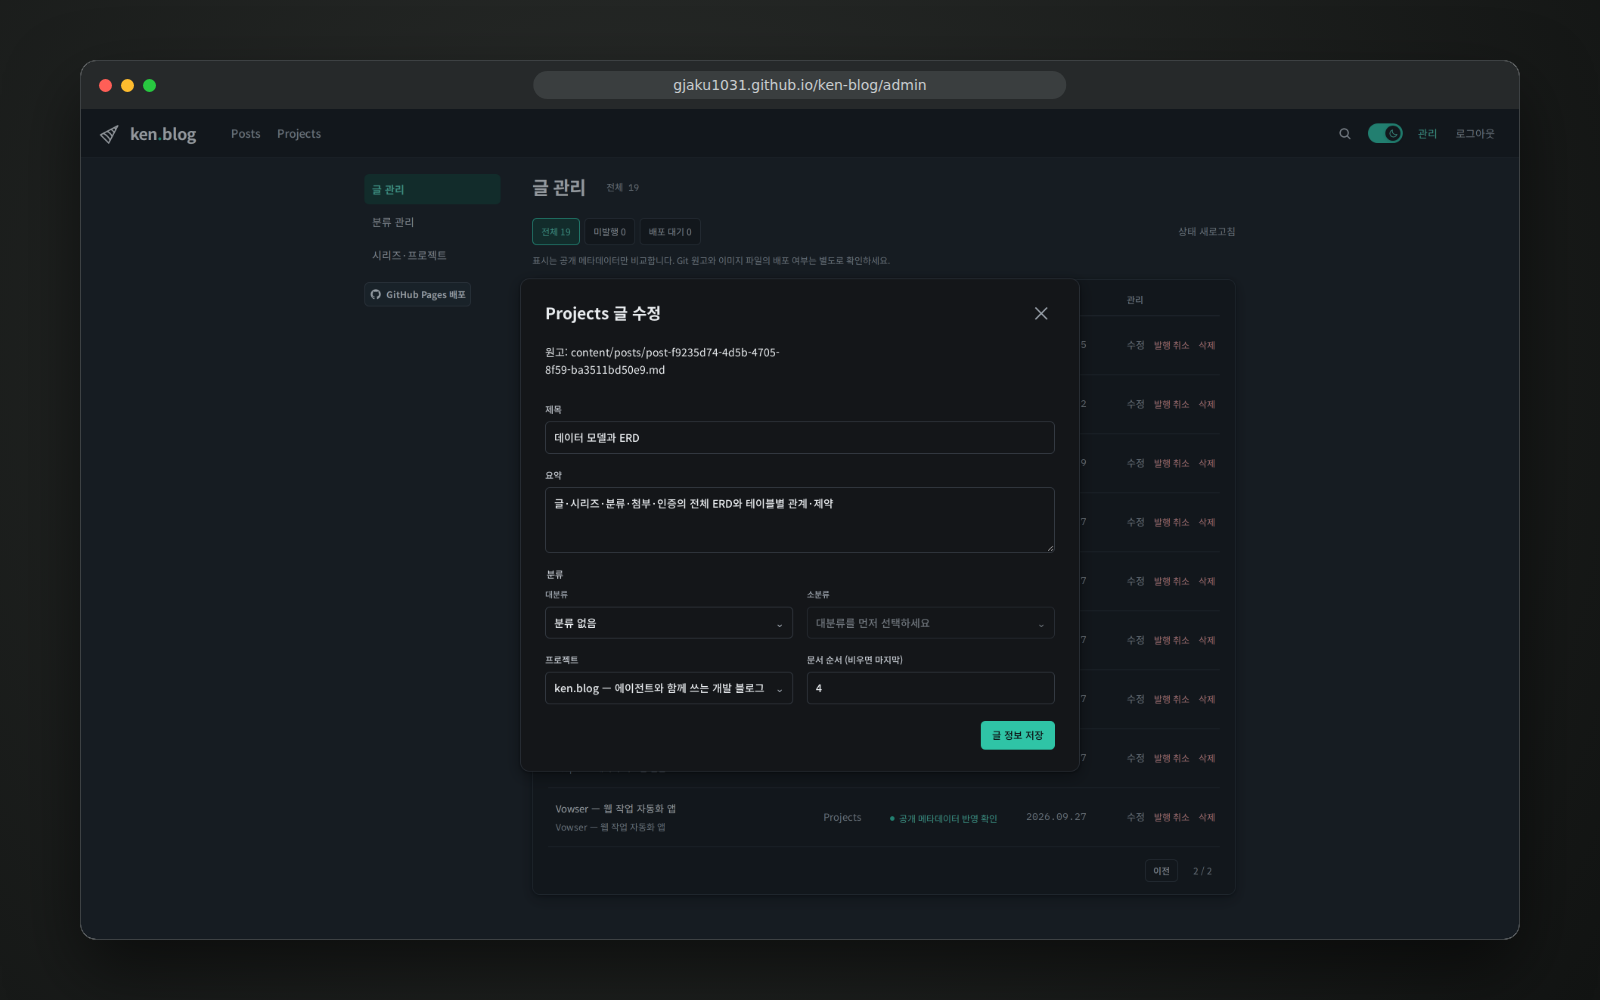
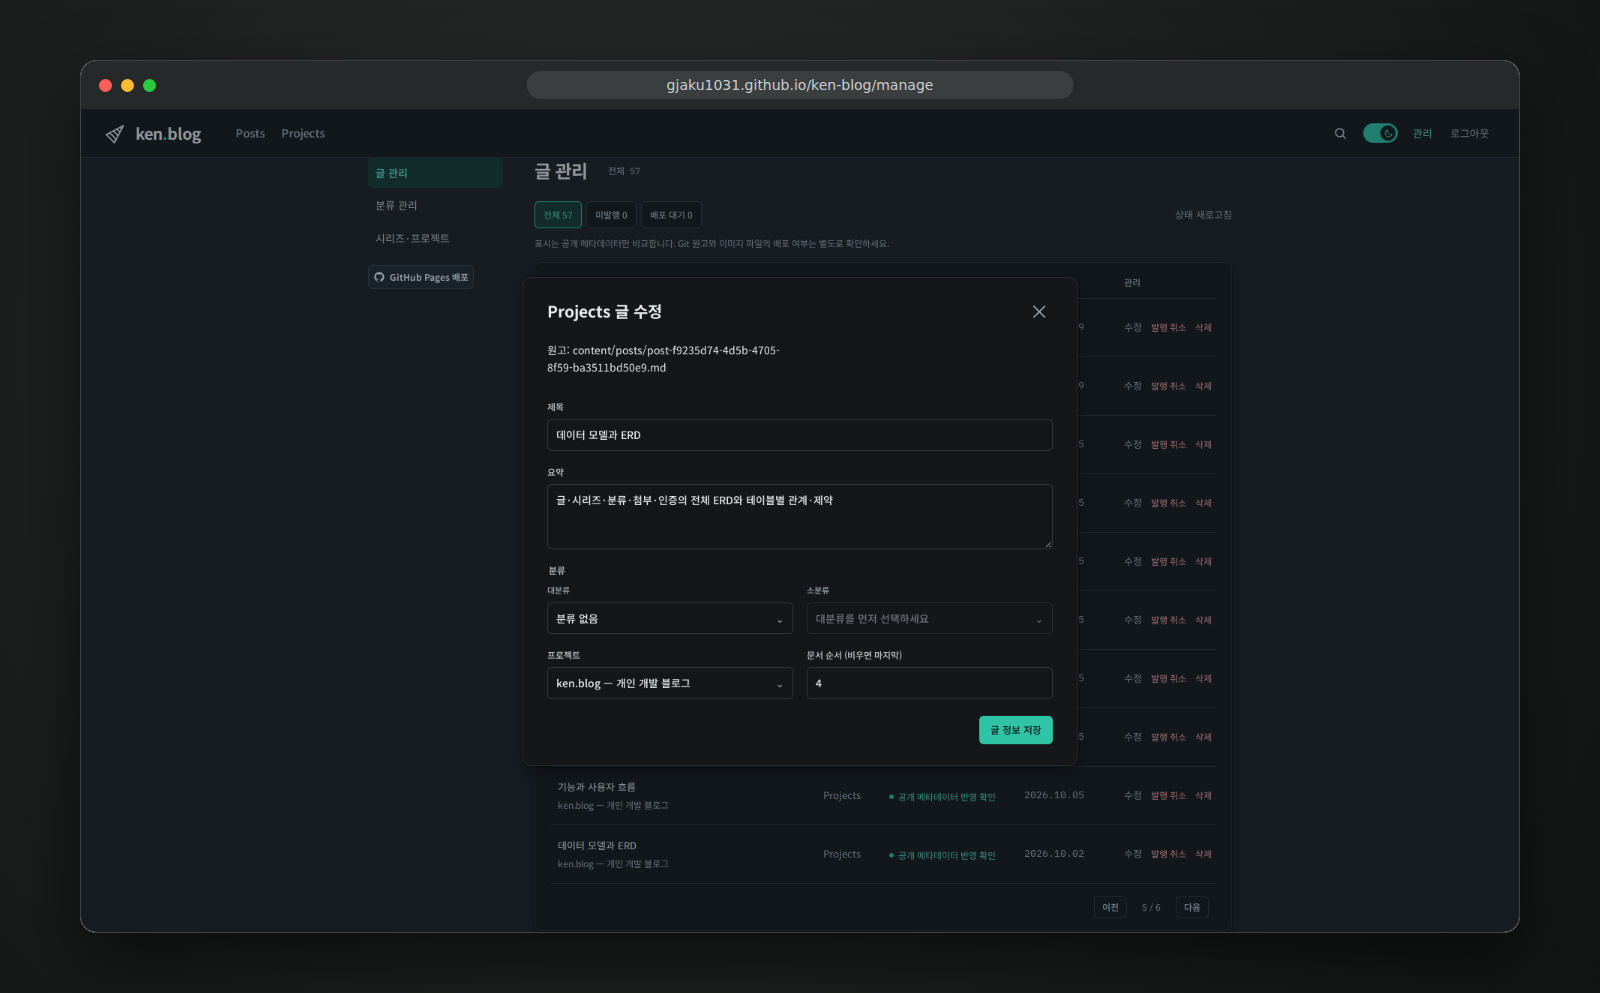
docs: replace the landing and README screenshots with current captures
The old captures showed the previous project name, removed posts in the related list and a manual API release step. Recapture the design doc page and the post editor for the landing (attachments 260-263) and the README, and recapture the infrastructure diagram with the automatic deploy path.

diff --git a/content/posts/project-06840552-43a2-4870-83a9-d3e848c71d7e.md b/content/posts/project-06840552-43a2-4870-83a9-d3e848c71d7e.md
@@ -41,9 +41,9 @@
 | 기술 문서 표현 | 코드 하이라이트·표·수식·주석, 라이트·다크 테마별 이미지 |
 | 원고 작성과 발행 | Git의 Markdown 원고를 수정하고, 관리자 화면에서 제목·분류·소속·문서 순서·발행 상태 관리 |
 
-![설계 문서 화면. 오른쪽 목차와 함께 전체 ERD 도식을 표시하고, 도식은 확대 보기로 열어 세부를 확인함|dark=78|w=100|a=center](attachment:77)
+![설계 문서 화면. 오른쪽 목차와 함께 전체 ERD 도식을 표시하고, 도식은 확대 보기로 열어 세부를 확인함|dark=261|w=100|a=center](attachment:260)
 
-![관리자 글 정보 편집 화면. 본문은 Git 원고에서 수정하고, 웹에서는 제목·요약·분류·소속 프로젝트·문서 순서만 관리함|dark=74|w=100|a=center](attachment:73)
+![관리자 글 정보 편집 화면. 본문은 Git 원고에서 수정하고, 웹에서는 제목·요약·분류·소속 프로젝트·문서 순서만 관리함|dark=263|w=100|a=center](attachment:262)
 
 ## 전체 아키텍처
 

diff --git a/README.md b/README.md
@@ -45,7 +45,7 @@
 
 <picture>
   <source media="(prefers-color-scheme: dark)" srcset="docs/images/readme/architecture-dark.png">
-  <img src="docs/images/readme/architecture-light.png" alt="전체 구성도. GitHub(원고 저장·사이트 빌드·Pages), Oracle Cloud ARM VM(Caddy·Spring Boot API·이미지 디스크), OCI 관리형 MySQL의 세 배포 경계와 열람·관리·빌드 경로" width="100%">
+  <img src="docs/images/readme/architecture-light.png" alt="전체 구성도. GitHub(원고 저장·사이트 빌드·Pages), Oracle Cloud ARM VM(Caddy·Spring Boot API·이미지 디스크), OCI 관리형 MySQL의 세 배포 경계와 열람·관리·빌드·API 자동 배포 경로" width="100%">
 </picture>
 
 - **열람**: 독자는 GitHub Pages의 정적 HTML을 읽음. 본문 표시에 API 요청이 필요 없음
